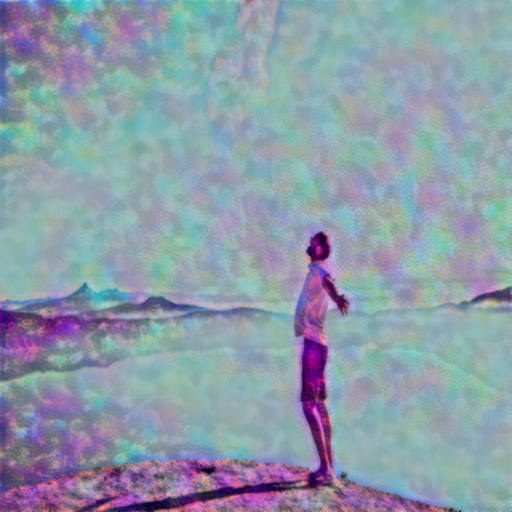
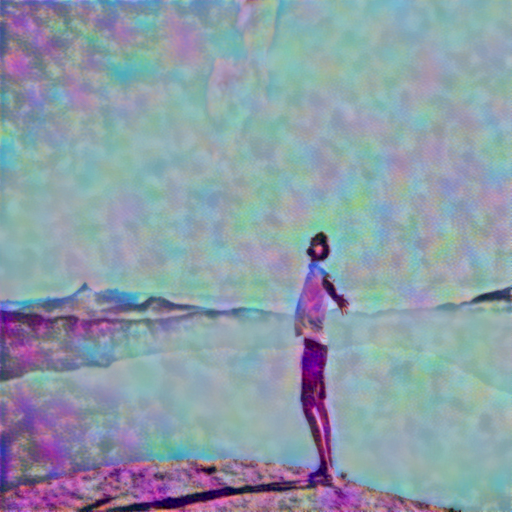
Cuda integration

diff --git a/style_transferer.py b/style_transferer.py
@@ -15,7 +15,6 @@ import sys
 
 # Image processing
 from PIL import Image                         # Image processing
-import imageio
 
 # Torch
 import torch
@@ -40,8 +39,12 @@ def main():
   parser.add_argument('--style_weight'  , '-sw' , type=float, default=5.0   , help="Num iterations to train")
   parser.add_argument('--var_weight'    , '-vw' , type=float, default=1.0   , help="Num iterations to train")
   args = parser.parse_args()
+
   validate_args(args)
+  device  = torch.device("cuda" if torch.cuda.is_available() else "cpu")
+
   print("\n----- Running Style Transfer -----")
+
   # Get the images
   raw_content_image   = get_image(args.content_image, width, height)
   raw_style_image     = get_image(args.style_image, width, height)
@@ -61,12 +64,17 @@ def main():
   s_img               = torch.from_numpy(ts_arr.copy())   # Style Image Tensor
   combo_img           = torch.empty_like(c_img)           # Combined Image Tensor
   combo_img.requires_grad_()
+
+  # GPU Compatibility
+  c_img     = c_img.to(device)
+  s_img     = s_img.to(device)
+  combo_img = combo_img.to(device)
   loss                = torch.zeros(1)                    # Loss Tensor
   print("\tCreated tensors")
   # Input tensor:
   # - Matrix of content image, style image, and combo image along the batch axis (0).
   # - Represents a batch of three images that will be passed thru the VGG16 CNN
-  in_tensor = torch.cat([c_img, s_img, combo_img], dim=0)
+  in_tensor = torch.cat([c_img, s_img, combo_img], dim=0).to(device)
 
   # These are the layers of the CNN we need output from
   layers = {
@@ -79,7 +87,7 @@ def main():
   layer_outputs = {} # Dict to store intermediate level outputs
 
   # Instantiate the VGG CNN Model
-  vgg16 = models.vgg16(weights=models.VGG16_Weights.IMAGENET1K_V1)
+  vgg16 = models.vgg16(weights=models.VGG16_Weights.IMAGENET1K_V1).to(device)
   vgg16.eval()
 
   # Define a hook to get the output of the layers

diff --git a/run_style_transfer.py b/run_style_transfer.py
@@ -4,14 +4,14 @@ Usage:
   run_style_transferer.py --content_src = <path to content directory> --style_src = <path to style directory>
 
 IMPORTANT: must be exactly as many images in content_src as image_src
+
+For Cuda: conda install pytorch torchvision torchaudio cudatoolkit=11.8 -c pytorch
 '''
 
 import argparse
 import subprocess as sp
 import sys
 import os
-
-from click import style
 
 def main():
   ''' Run style transferer '''
@@ -45,7 +45,7 @@ def main():
     s_name = os.path.splitext(os.path.basename(style_paths[idx]))[0]
     
     out_name = f"image_out/{c_name}_+_{s_name}"
-    sp_args = ['python', './style_transferer.py', '-ci', content_path, '-si', style_paths[idx], '-io', out_name, '-itr', str(2)]
+    sp_args = ['python', './style_transferer_gpu.py', '-ci', content_path, '-si', style_paths[idx], '-io', out_name, '-itr', str(2)]
     # sp.run(sp_args, stdout=sp.PIPE, universal_newlines=True, shell=False)
     command = ' '.join(sp_args)  # Ensure sp_args is a space-separated string
     os.system(command)
